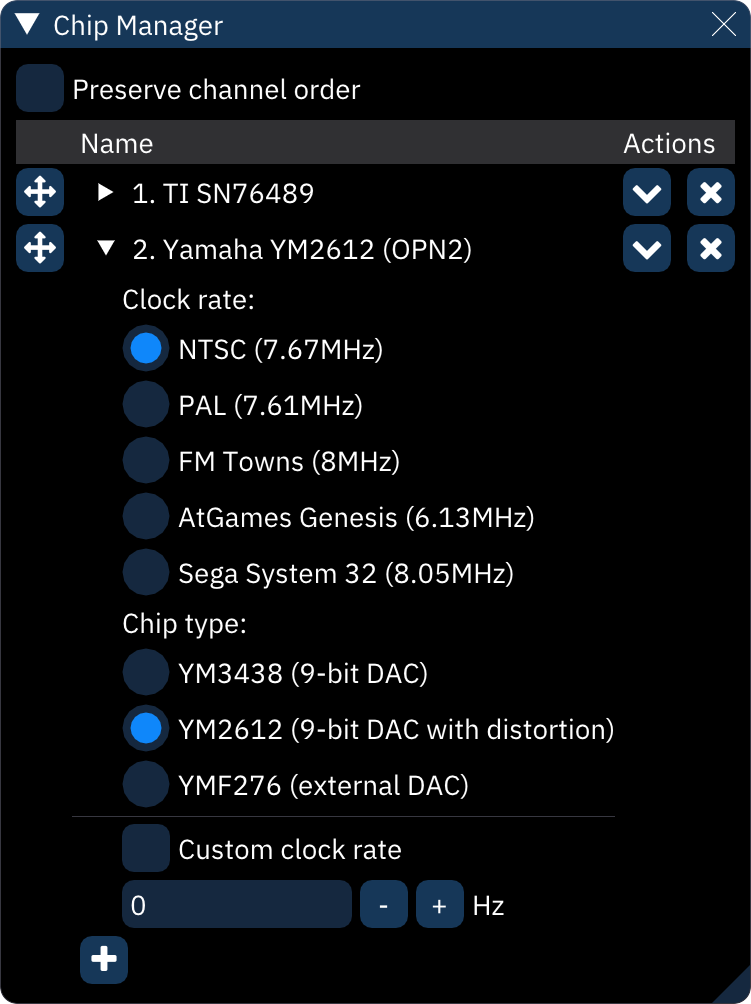
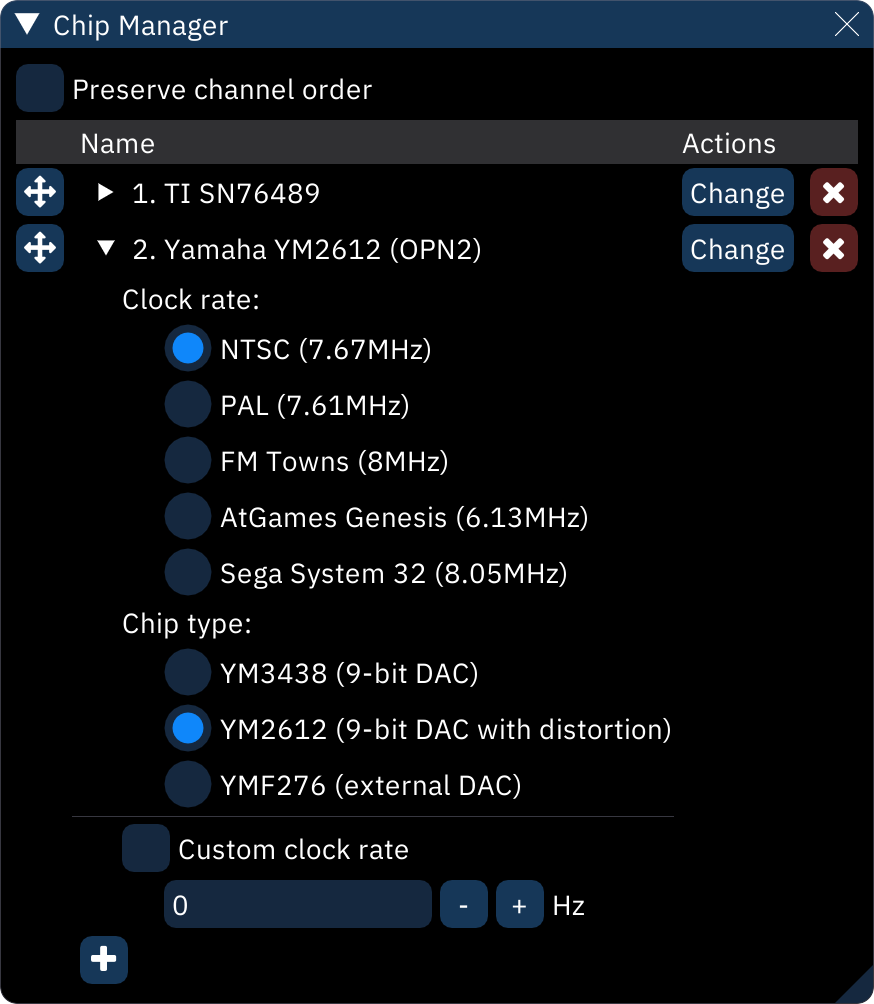
Updating chip manager doc.

diff --git a/doc/8-advanced/chip-manager.md b/doc/8-advanced/chip-manager.md
@@ -8,7 +8,7 @@ the **chip manager** window does exactly what it says.
 
 to move a chip around, click and drag the ![crossed-arrows](chip-manager-move.png) button to its left.
 
-to replace a chip with a different one, click the ![down-angle](chip-manager-change.png) and select the replacement.
+to replace a chip with a different one, click the **Change** button and select the replacement.
 
 to remove a chip entirely, click the ![X](chip-manager-remove.png) button.
 
